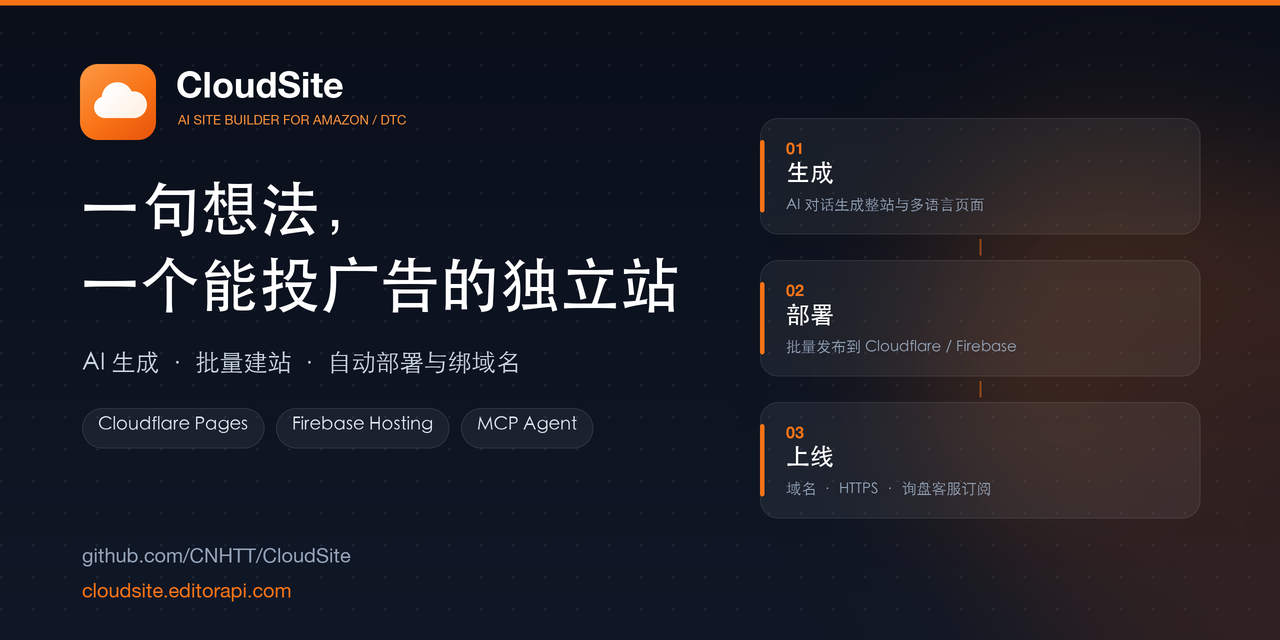
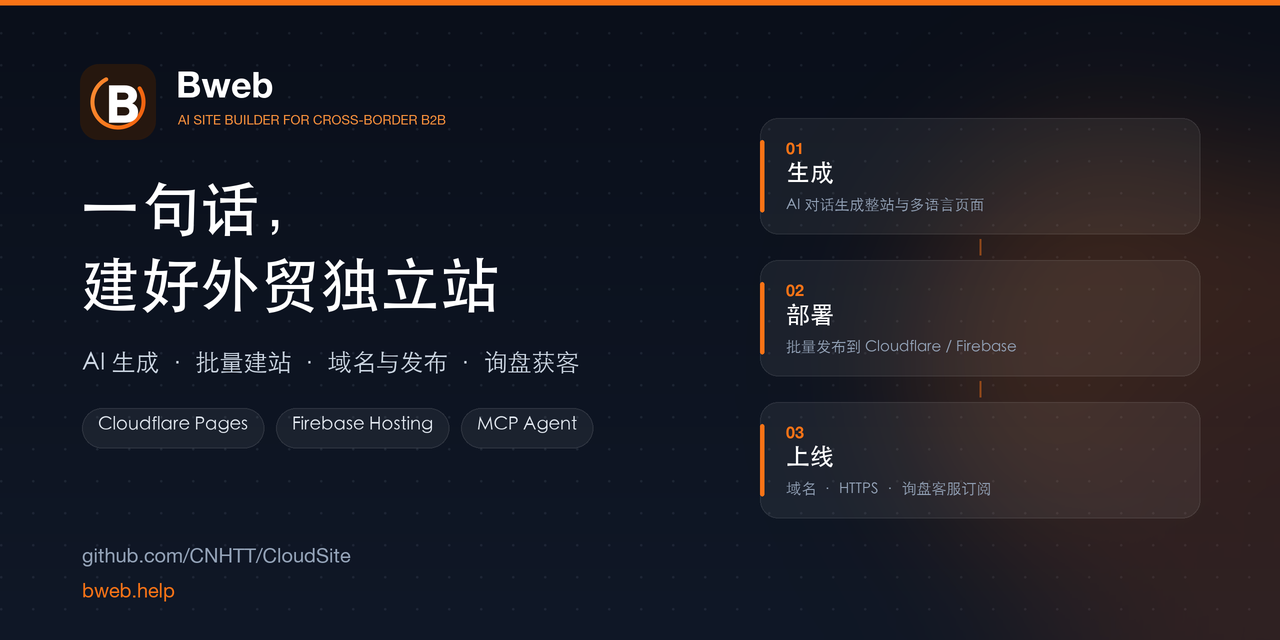
噜妹说太简单了 得继续完善

diff --git a/README.en.md b/README.en.md
@@ -1,16 +1,16 @@
 <div align="center">
 
-<img src="https://cloudsite.editorapi.com/icon-192.png" width="84" alt="CloudSite logo" />
+<img src="https://bweb.help/icon-192.png" width="84" alt="Bweb logo" />
 
-# CloudSite
+# Bweb
 
-**One idea in. A landing page ready to run ads.**
+**Your AI partner for B2B websites.**
 
-My girlfriend runs an Amazon store and an independent site. Every new product comes with one question: when can we start running ads?
+Lumei runs a cross-border e-commerce business and her own independent site. Every new product and every new market comes with one question: when can the site start bringing customers in?
 
-So I wired AI generation, deployment, and domains into one path. Now she has an ad-ready link in minutes.
+Lulu is a programmer. He wired AI generation, domains, deployment and growth into one path. Now a new product gets an ad-ready link in minutes.
 
-Amazon / DTC landing pages · AI generation · Batch building · Cloudflare Pages / Firebase Hosting · Automatic domains and HTTPS
+Cross-border B2B / independent sites · AI generation · Batch building · Cloudflare Pages / Firebase Hosting · Domains and HTTPS
 
 [简体中文](README.md) · [English](README.en.md)
 
@@ -20,59 +20,61 @@ Amazon / DTC landing pages · AI generation · Batch building · Cloudflare Page
 [![Cloudflare Pages](https://img.shields.io/badge/Cloudflare-Pages-F38020?logo=cloudflarepages&logoColor=white)](https://pages.cloudflare.com)
 [![Firebase Hosting](https://img.shields.io/badge/Firebase-Hosting-FFCA28?logo=firebase&logoColor=black)](https://firebase.google.com/docs/hosting)
 
-[Website](https://cloudsite.editorapi.com) · [Get started free](https://cloudsite.editorapi.com/en/register) · [Pricing](https://cloudsite.editorapi.com/en/pricing) · [MCP setup](#quick-start)
+[Website](https://bweb.help) · [Get started free](https://bweb.help/en/register) · [Pricing](https://bweb.help/en/pricing) · [MCP setup](#quick-start)
 
 </div>
 
 ---
 
-## Why CloudSite exists
+## Why Bweb exists
 
-The story starts at 2 a.m.
+The story starts with a question: "Is the site up?"
 
-"Is the landing page up?"
+It was 2 a.m. Samples for the next day's shipment were piled up in the living room. Lumei was staring at the ad dashboard — campaign built, budget set, one link short. Lulu was staring at the terminal. "Almost." The certificate was still being issued; DNS had just finished propagating.
 
-She asked without looking up. The living room was full of boxes waiting to ship. I stared at my screen. "Almost." The certificate hadn't even gone live yet.
+Lumei sells cross-border: she has a store on Amazon, and she runs her own independent site to take B2B inquiries. Every new product, every ad campaign, every new market needs a landing page she can plug into an ad account or send to a customer. The page itself isn't the hard part — AI can write one in ten minutes. The hard part is everything after it: swapping images and styling, exporting and uploading, installing the CLI, deploying, binding the domain, waiting for the certificate. If any step stalls, the campaign sits there spending nothing and selling nothing, and inquiries never arrive.
 
-She sells on Amazon, and she also runs an independent store to build traffic she owns. Every new product, every ad campaign, every new market needed a landing page she could plug into an ad account or send to a group chat. The page itself was easy — AI could write it in ten minutes. Everything after it was the problem: swapping images, exporting, uploading, binding the domain, waiting for the certificate. Her ad campaigns were ready; her landing pages were still queued behind me. She wanted a link she could launch immediately. What she got was "almost there — DNS is still propagating."
+What she asked that night wasn't really a technical question. It was: "When can customers start coming in?"
 
-And that's when it hit me: AI can already write the page. Why am I still babysitting everything after it?
+That's when Lulu saw it: AI had already done the step that needed a person most. The next six steps still needed someone to babysit them — and every new product reset the whole queue.
 
-That weekend I wired generation, deployment, domains, and HTTPS into one path. The first time it worked, I typed "make me a landing page that sells mugs," and a few minutes later the site opened on my phone.
+That weekend he wired generation, deployment, domains, and HTTPS into one path. The first time it worked, he typed "build a cross-border site that sells ceramic mugs," and a few minutes later the site opened on his phone.
 
-I sent her the link. She replied "whoa," then asked, "can we add a coupon?"
+He sent Lumei the link. She replied "whoa," then asked, "can we add a coupon?"
 
-She became the first user — and the first person to ask for more features.
+She became the first user — and the first person to ask for more.
 
-Then friends started asking. People selling on Amazon, running independent stores, or juggling a pile of landing pages were all repeating my routine.
+Then more people started asking. Export sellers, cross-border e-commerce teams, factory sales reps, solo operators juggling dozens of landing pages. They were all stuck in the same place: not at writing the page, but at everything after it — nobody wanted to be the human deployment pipeline.
 
-That's how CloudSite grew from a boyfriend's shortcut into what it is now: fewer late nights for me, fewer headaches for anyone else selling on Amazon or building their own site.
-
-It puts the whole path in one console:
+Bweb grew out of those repeated late nights. It puts the whole path in one console:
 
 - **Generate** — build a full site through an AI conversation, or upload static pages you already have
 - **Batch** — paste a list or import a CSV; generate, deploy, and bind domains for dozens or hundreds of sites
 - **Ship** — call the Cloudflare Pages / Firebase Hosting APIs directly; no wrangler or Firebase CLI required
 - **Operate** — inquiry forms, live chat, email subscriptions, conversion tracking, SEO/GEO audits, and marketing automation, ready after deploy
 
+We don't hold your domain for you, and we don't lock your customers inside the platform: sites are static files, domains are registered in your name, your email list can be exported at any time, and you can leave whenever you want. Bweb only smooths the road between "it's built" and "it's live."
+
+Lumei rarely asks "is the site up?" anymore. Now she asks: "When can we launch the next market?"
+
 > The sites you publish can run inside Cloudflare's free tier: static hosting, custom domains, automatic HTTPS, and DNS cost nothing extra.
 
 ## Who it is for
 
-| You are... | What CloudSite removes |
+| You are... | What Bweb removes |
 | --- | --- |
-| **An Amazon or cross-border seller** | Landing pages for every product and ad campaign, turning off-platform traffic into your own domain and email list |
+| **A cross-border B2B or export seller (including Amazon off-platform traffic)** | Landing pages for every product, market and ad campaign, turning traffic into your own domain and email list |
 | **Running cross-border site networks** | Generate and deploy dozens of independent sites, each on its own domain |
 | **An indie developer or small team** | No more build pipelines, deploy scripts, and DNS edits for a single landing page |
-| **Already generating pages with AI** | Hand over HTML / ZIP; CloudSite deploys it, binds the domain, adds forms and chat |
+| **Already generating pages with AI** | Hand over HTML / ZIP; Bweb deploys it, binds the domain, adds forms and chat |
 | **An agency or site-building provider** | Multi-tenant isolation, team permissions, wallet and billing, a unified review desk |
 | **Automating with agents** | Use Claude Code, Codex, or any MCP client to build, edit, publish, and audit sites |
 
-## How Amazon sellers drive traffic to their own site
+## How export sellers turn a site into inquiries
 
 Traffic inside the marketplace keeps getting more expensive, and the rules — and the account itself — are not yours. An independent site puts the ad traffic, customer emails, and brand assets in your hands.
 
-CloudSite handles the heavy lifting:
+Bweb handles the heavy lifting:
 
 - **One landing page per campaign** — product launches, promotions, and different audiences, live in minutes
 - **Your own domain and HTTPS** — ready for the ad platform, no dev queue
@@ -80,18 +82,18 @@ CloudSite handles the heavy lifting:
 - **Multilingual** — one product across markets, with automatic hreflang
 - **Batch building** — many sites and markets without hand-deploying each one
 
-[Sign up free and ship your next landing page →](https://cloudsite.editorapi.com/en/register)
+[Sign up free and ship your next landing page →](https://bweb.help/en/register)
 
 ## From idea to ad-ready site, in one console
 
 | Stage | What you get |
 | --- | --- |
 | **Generate** | AI builds or rewrites whole pages; multilingual sites generate up to 4 language versions in one pass; attach library images and icons to the prompt |
-| **Assemble** | 11 industry templates (industrial machinery, home & living, consumer electronics, apparel, food & beverage, beauty, medical, construction, agriculture, auto parts, packaging); ZIP / folder upload and site-group import / export |
+| **Assemble** | 62 templates (industry sites, cross-border ad pages, company sites and e-commerce landing pages) × 8 visual styles; ZIP / folder upload and site-group import / export |
 | **Deploy** | Cloudflare Pages Direct Upload (BLAKE3 asset hashing + manifest) and Firebase Hosting REST (gzip + SHA-256), no CLI dependency; batch jobs with concurrency, live logs, and cancellation |
-| **Domains** | Multiple custom domains per project; Cloudflare proxied CNAME plus certificate handled automatically; Firebase A / TXT records written automatically or explained clearly |
-| **Grow** | Inquiry forms, live chat, WhatsApp Business, email subscriptions and campaigns, ad conversion tracking, data export, SEO/GEO audits |
-| **Collaborate** | Per-account data isolation, team permissions, a single wallet and billing, refunds and credit notes, a unified review desk, Alipay and invoices |
+| **Domains** | Multiple custom domains per project; Cloudflare proxied CNAME plus certificate handled automatically; Firebase A / TXT records written automatically or explained clearly. Domain services include availability lookup, registration guidance, and assisted registration — the domain is registered in your name |
+| **Grow** | Inquiry forms, live chat, WhatsApp Business, email subscriptions and campaigns, ad conversion tracking, social distribution with UTM, data export, SEO/GEO audits |
+| **Collaborate** | Per-account data isolation, team permissions, a single wallet and billing, refunds and credit notes, a unified review desk; pay by WeChat / PayPal / USDT·USDC / bank transfer, with invoices |
 
 ## What's inside
 
@@ -99,7 +101,7 @@ CloudSite handles the heavy lifting:
 
 - **AI site generation and editing** — works with the Anthropic Messages API or any OpenAI-compatible endpoint (OpenAI, DeepSeek, local models). Describe a change on the site page and the AI rewrites the full HTML; save and the preview refreshes.
 - **Multilingual** — up to 4 languages, each rendered as its own static page (`index.html`, `en/index.html`, …) with `hreflang`, a shared language switcher, and RTL support.
-- **Industry templates** — 11 production-ready landing pages with copy, product sections, FAQ, and inquiry blocks; keep editing them with AI.
+- **Industry templates** — 62 production-ready templates covering industry sites, cross-border ad pages, company sites, and e-commerce landing pages, with copy, product sections, FAQ, and inquiry blocks; switch between 8 visual styles or keep editing with AI.
 - **Manual content editing** — edit page text, titles, meta descriptions, and images block by block; only the matching source is touched, while CSS / JS / inline SVG stay intact.
 - **Asset library** — manage images, icons, and SVG / ICO assets; attach up to 8 assets to a single AI request.
 - **Site-group portability** — export a group of sites as a ZIP and import it into another account.
@@ -122,21 +124,22 @@ Drop one `enhance.js` on the deployed page and you get:
 - **Conversion tracking** — ad-platform conversion events and attribution
 - **SEO / GEO audit** — check `index.html`, `robots.txt`, `llms.txt` / `llms-full.txt`, and `sitemap.xml` locally or against a live domain; get a total score, per-item evidence, and prioritized fixes that can be handed back to the AI
 - **Analytics and export** — inquiries, conversations, subscriptions, traffic, and conversions in one place, with export
+- **Social distribution** — schedule content, generate UTM links, and record performance
 
 ### 🤖 Agents and APIs
 
 - **MCP** — a standard MCP Streamable HTTP endpoint at `/api/mcp`. Claude Code, Codex, Workbuddy, and other clients can list sites, generate pages, upload ZIPs, publish, bind domains, and run SEO audits.
 - **Read-write and read-only tokens** — read-only tokens never expose write tools, so they are safe to hand to a third party for review.
 - **Plugin-free API** — `/api/v1` with a site key lets pages generated by third-party tools use the enhancement features without a backend.
-- **Zero-dependency bridge** — `mcp/cloudsite-mcp.mjs` is included for clients that only speak stdio.
+- **Zero-dependency bridge** — `mcp/cloudsite-mcp.mjs` is included for clients that only speak stdio. The file name and `CLOUDSITE_` env vars keep the legacy prefix for backward compatibility; the product brand is Bweb.
 
 ## Quick start
 
-CloudSite exposes a standard MCP Streamable HTTP endpoint. Nothing to deploy: create an account, get a token, connect your AI client, and start building, publishing, and binding domains.
+Bweb exposes a standard MCP Streamable HTTP endpoint. Nothing to deploy: create an account, get a token, connect your AI client, and start building, publishing, and binding domains.
 
 ### 1. Create an access token
 
-Sign in to the [CloudSite console](https://cloudsite.editorapi.com) → **Settings → MCP / Agent** → **Create token**.
+Sign in to the [Bweb console](https://bweb.help) → **Settings → MCP / Agent** → **Create token**.
 
 - Tokens start with `cs_` and are shown only once
 - A **read-write token** can create, generate, upload, publish, and bind domains
@@ -147,15 +150,17 @@ Sign in to the [CloudSite console](https://cloudsite.editorapi.com) → **Settin
 Claude Code (HTTP, recommended):
 
 ```bash
-claude mcp add --transport http cloudsite https://cloudsite.editorapi.com/api/mcp \
+claude mcp add --transport http cloudsite https://bweb.help/api/mcp \
   --header "Authorization: Bearer cs_your_token"
 ```
 
 Codex, or any client that only supports stdio:
 
 ```bash
-curl -O https://cloudsite.editorapi.com/cloudsite-mcp.mjs
+curl -O https://bweb.help/cloudsite-mcp.mjs
 ```
+
+The script keeps the `cloudsite-mcp.mjs` filename and `CLOUDSITE_` env prefix for backward compatibility.
 
 Then add this to `~/.codex/config.toml`:
 
@@ -163,7 +168,7 @@ Then add this to `~/.codex/config.toml`:
 [mcp_servers.cloudsite]
 command = "node"
 args = ["/absolute/path/cloudsite-mcp.mjs"]
-env = { CLOUDSITE_URL = "https://cloudsite.editorapi.com", CLOUDSITE_API_TOKEN = "cs_your_token" }
+env = { CLOUDSITE_URL = "https://bweb.help", CLOUDSITE_API_TOKEN = "cs_your_token" }
 ```
 
 Other MCP clients that speak HTTP:
@@ -173,7 +178,7 @@ Other MCP clients that speak HTTP:
   "mcpServers": {
     "cloudsite": {
       "type": "http",
-      "url": "https://cloudsite.editorapi.com/api/mcp",
+      "url": "https://bweb.help/api/mcp",
       "headers": { "Authorization": "Bearer cs_your_token" }
     }
   }
@@ -193,7 +198,7 @@ Once connected, just describe what you want:
 You can also send JSON-RPC directly:
 
 ```bash
-curl https://cloudsite.editorapi.com/api/mcp \
+curl https://bweb.help/api/mcp \
   -H "Authorization: Bearer cs_your_token" \
   -H "Content-Type: application/json" \
   -d '{
@@ -222,7 +227,7 @@ Common tools:
 
 The full tool list is available in the console under **Settings → MCP / Agent**.
 
-No account yet? [Sign up free](https://cloudsite.editorapi.com/en/register), then create a token under **Settings → MCP / Agent**.
+No account yet? [Sign up free](https://bweb.help/en/register), then create a token under **Settings → MCP / Agent**.
 
 ## Add enhancements to an existing page
 
@@ -232,9 +237,9 @@ Already have a backend, or building pages with another tool? Create a site key i
 
 | Page | Contents |
 | --- | --- |
-| [Features and pricing](https://cloudsite.editorapi.com/en/pricing) | Plans, quotas, and billing |
-| [Guide](https://cloudsite.editorapi.com/en/guide) | End-to-end: create a site, publish it, bind a domain |
-| [Use cases](https://cloudsite.editorapi.com/en/use-cases) | Amazon off-platform traffic, site networks, multilingual sites |
+| [Features and pricing](https://bweb.help/en/pricing) | Plans, quotas, and billing |
+| [Guide](https://bweb.help/en/guide) | End-to-end: create a site, publish it, bind a domain |
+| [Use cases](https://bweb.help/en/use-cases) | Cross-border B2B lead generation, site networks, multilingual sites |
 | MCP setup | Client setup, tokens, and the full tool list (see Quick start) |
 | Public API | `/api/v1` site keys and plugin-free embedding (create a key in site details) |
 
@@ -246,6 +251,6 @@ Already have a backend, or building pages with another tool? Create a site key i
 
 ## Get started
 
-[**Sign up free**](https://cloudsite.editorapi.com/en/register) · [Pricing](https://cloudsite.editorapi.com/en/pricing) · [Connect MCP](#quick-start)
+[**Sign up free**](https://bweb.help/en/register) · [Pricing](https://bweb.help/en/pricing) · [Connect MCP](#quick-start)
 
-If CloudSite saves you time, a **Star ⭐** is appreciated.
+If Bweb saves you time, a **Star ⭐** is appreciated.
